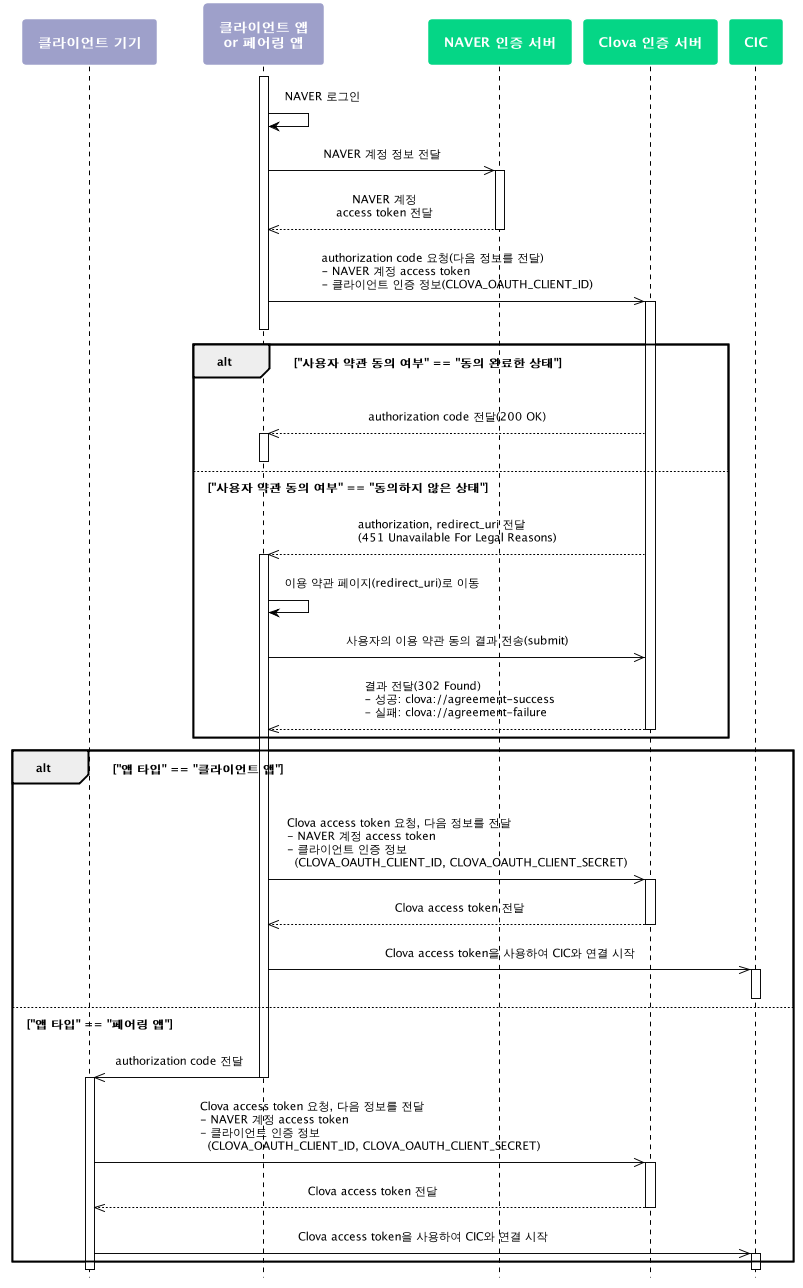
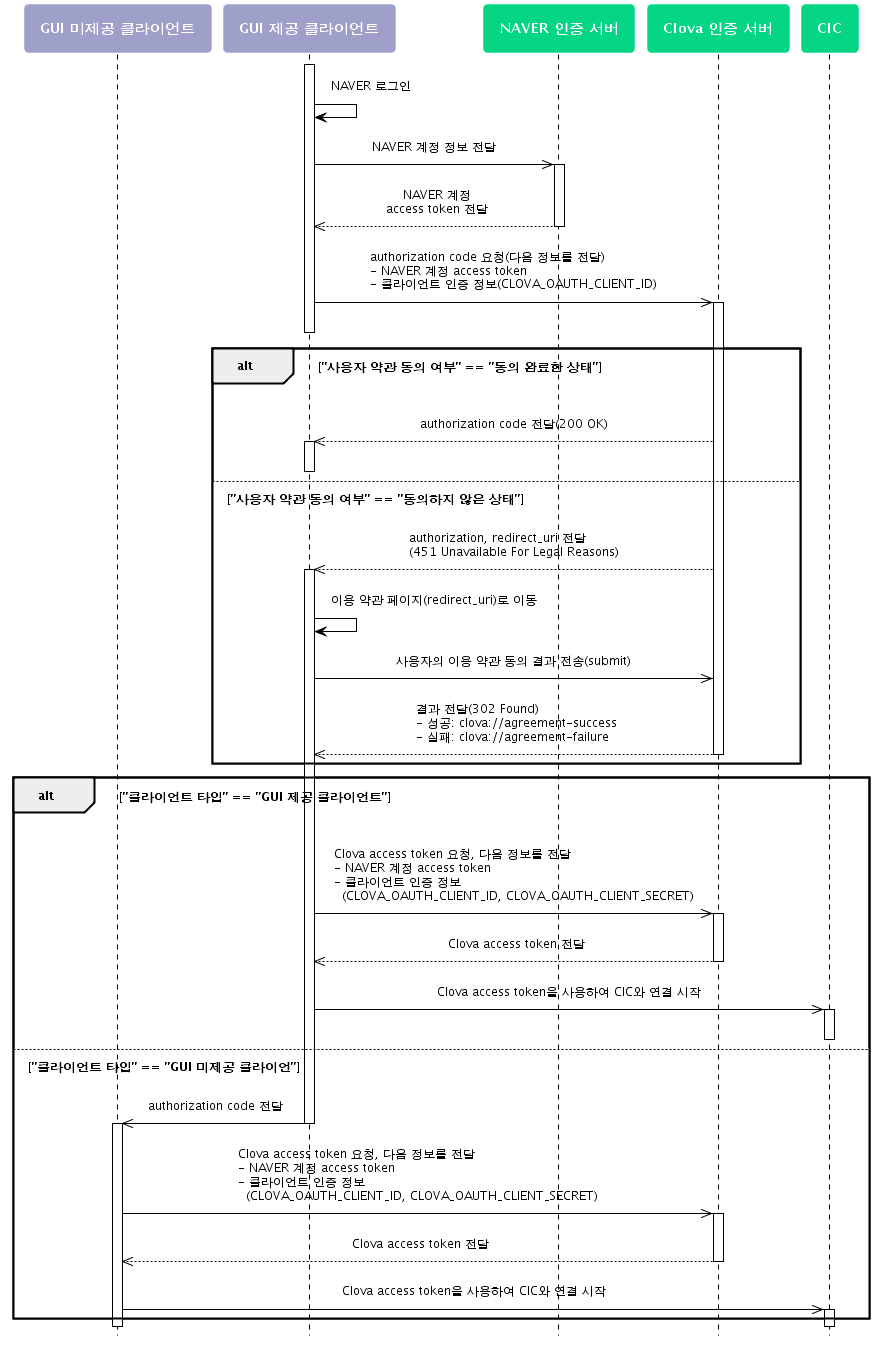
Update authorization description and image by client device type update

diff --git a/ko/CIC/Guides/InteractWithCIC/Connect_to_CIC.md b/ko/CIC/Guides/InteractWithCIC/Connect_to_CIC.md
@@ -9,8 +9,8 @@
 사용자는 {{ book.TargetServiceForClientAuth }} 계정을 클라이언트의 기기나 앱에 인증해야 Clova를 사용할 수 있습니다. {{ book.TargetServiceForClientAuth }} 계정 인증 정보까지 처리된 Clova access token을 Clova 인증 서버로부터 획득해야 클라이언트가 CIC로 연결을 시도할 수 있습니다. 이를 위해 [Clova 인증 API](/CIC/References/Clova_Auth_API.md)를 이용해야 합니다.
 
 아래 그림은 클라이언트가 Clova access token은 획득하는 흐름을 나타내고 있습니다. 참고로 클라이언트는 두 가지 유형으로 구분되며, 각 유형에 따라 Clova access token을 획득하는 과정이 조금 달라집니다.
-* **기기 타입의 클라이언트**: 스피커나 가전 제품에 임베드된 형태로 Clova 서비스를 제공하는 클라이언트입니다. 이런 기기 타입의 클라이언트는 사용자가 계정을 인증할 때 기기를 통해 인증 정보를 입력할 방법이 없거나 불편하기 때문에 이를 보조하기 위해 페어링 앱(paired app)을 제공합니다.
-* **앱 타입의 클라이언트**: Clova 앱과 같이 소프트웨어 형태로 Clova 서비스를 제공하는 클라이언트입니다.
+* **GUI 미제공 클라이언트**: 스피커나 화면이 없는 가전 제품에 임베드된 형태로 Clova 서비스를 제공하는 클라이언트입니다. 이런 타입의 클라이언트는 사용자가 계정을 인증할 때 기기를 통해 인증 정보를 입력할 방법이 없거나 불편하기 때문에 이를 보조하기 위한 연동 앱(companion app)을 제공하거나 Clova 앱과 연동되어야 합니다.
+* **GUI 제공 클라이언트**: 화면이 있는 제품에 임베드된 형태로 Clova 서비스를 제공하는 클라이언트이거나 Clova 앱과 같이 소프트웨어 형태로 Clova 서비스를 제공하는 클라이언트입니다.
 
 ![](/CIC/Resources/Images/CIC_Authorization.png)
 
@@ -18,7 +18,7 @@ Clova access token을 획득하는 절차는 다음과 같습니다.
 
 <ol>
   <li>
-    <p>사용자가 {{ book.TargetServiceForClientAuth }} 계정을 인증할 수 있는 인터페이스를 클라이언트 앱 또는 클라이언트 기기와 페어링하는 앱에서 제공합니다(<a href="{{ book.LoginAPIofTargetService }}" target="_blank">{{ book.TargetServiceForClientAuth }} 아이디로 로그인하기 SDK</a>). 사용자 음성 입력만으로 계정 인증을 할 수 없기 때문에 반드시 클라이언트 앱이나 페어링 앱을 사용해야 합니다.</p>
+    <p>클라이언트는 사용자가 {{ book.TargetServiceForClientAuth }} 계정을 인증할 수 있는 인터페이스를 제공합니다(<a href="{{ book.LoginAPIofTargetService }}" target="_blank">{{ book.TargetServiceForClientAuth }} 아이디로 로그인하기</a>). <strong>GUI 미제공 클라이언트</strong>의 클라이언트는 사용자 음성 입력만으로 계정 인증을 할 수 없기 때문에 반드시 Clova 앱이나 연동 앱(companion app)을 사용해야 합니다.</p>
   </li>
   <li>
     <p>사용자가 입력한 {{ book.TargetServiceForClientAuth }} 계정 정보를 이용하여 {{ book.TargetServiceForClientAuth }} 계정 access token을 획득합니다.</p>
@@ -54,7 +54,7 @@ Clova access token을 획득하는 절차는 다음과 같습니다.
     </ul>
   </li>
   <li>
-    <p>(페어링 앱의 경우) authorization code를 실제 클라이언트 기기로 전송합니다.</p>
+    <p>(GUI 미제공 클라이언트의 경우) authorization code를 실제 클라이언트 기기로 전송합니다.</p>
   </li>
   <li>
     <p>획득한 authorization code와 <a href="#ClientAuthInfo">클라이언트 인증 정보</a> 등의 정보를 파라미터로 입력하여 <a href="/CIC/References/Clova_Auth_API.html#RequestClovaAccessToken">Clova access token을 요청</a>합니다. 다음은 Clova access token을 요청한 예입니다.</p>
